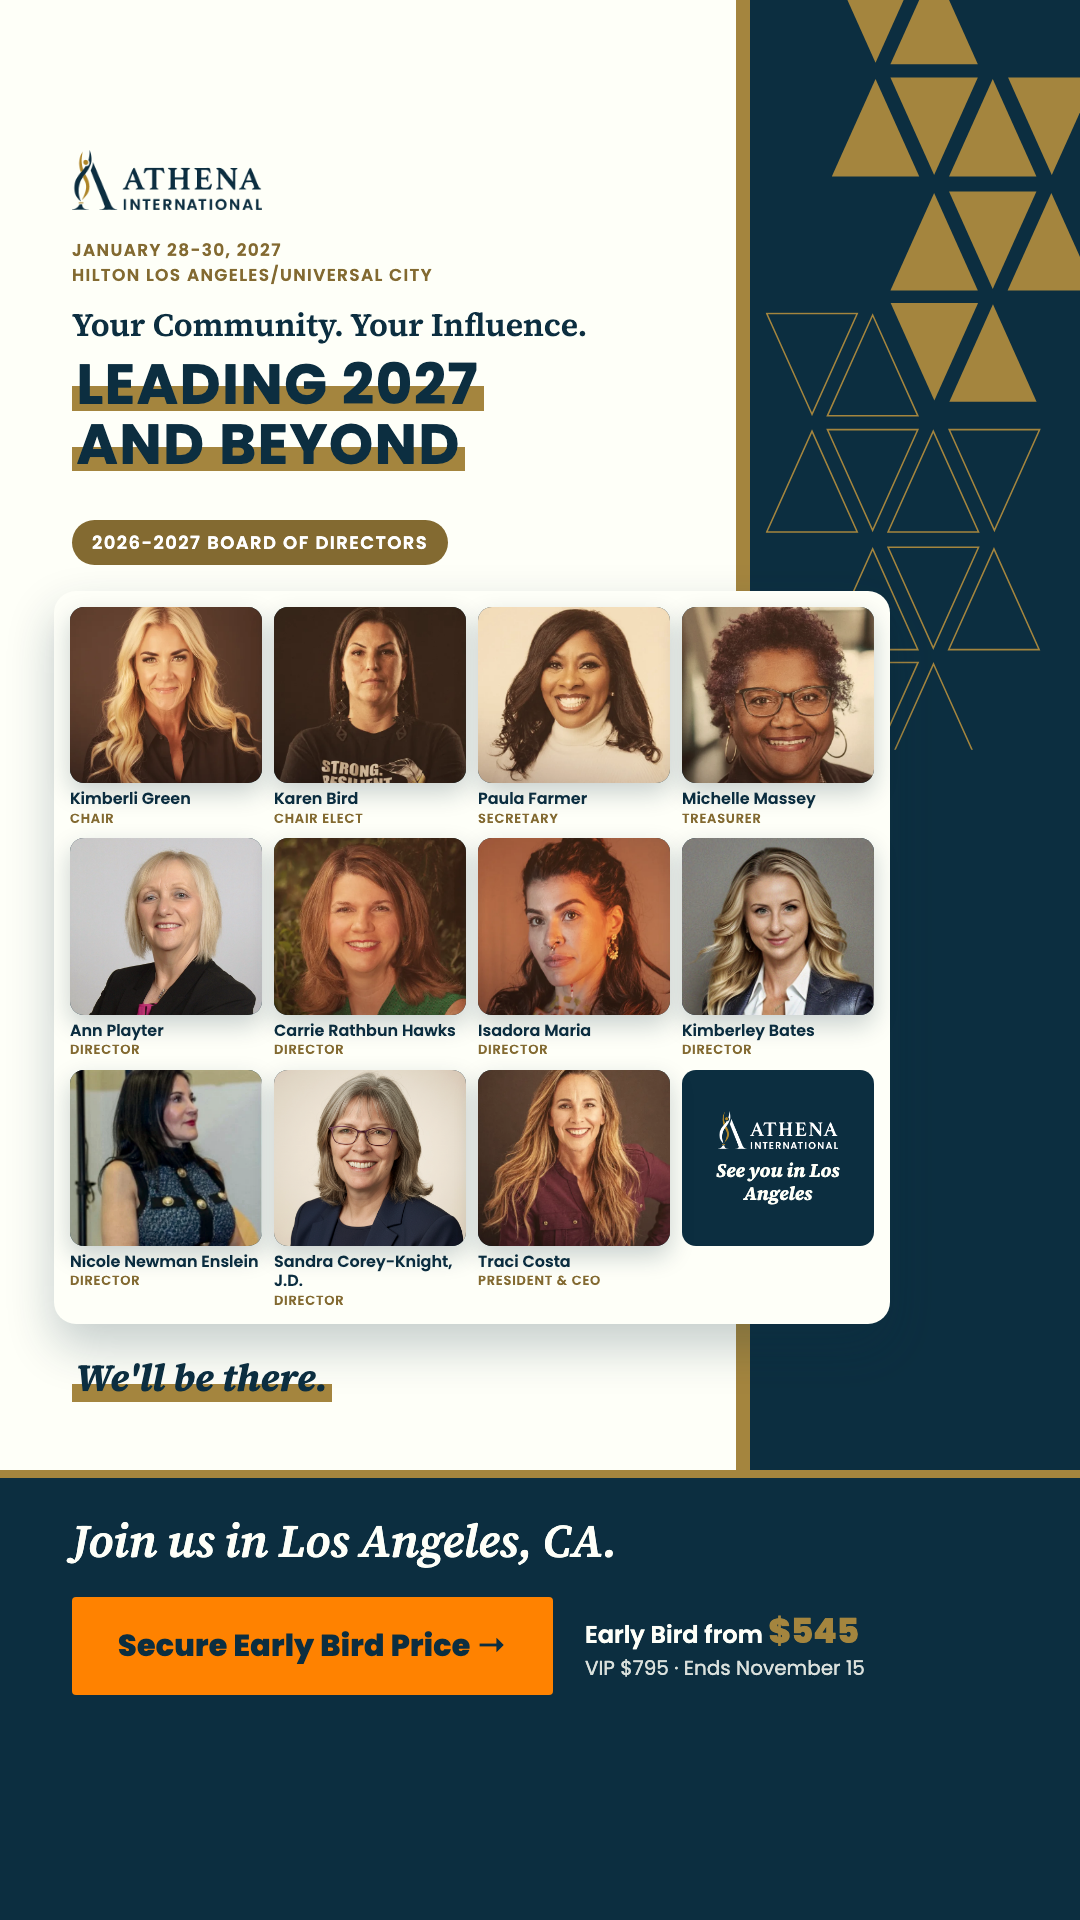
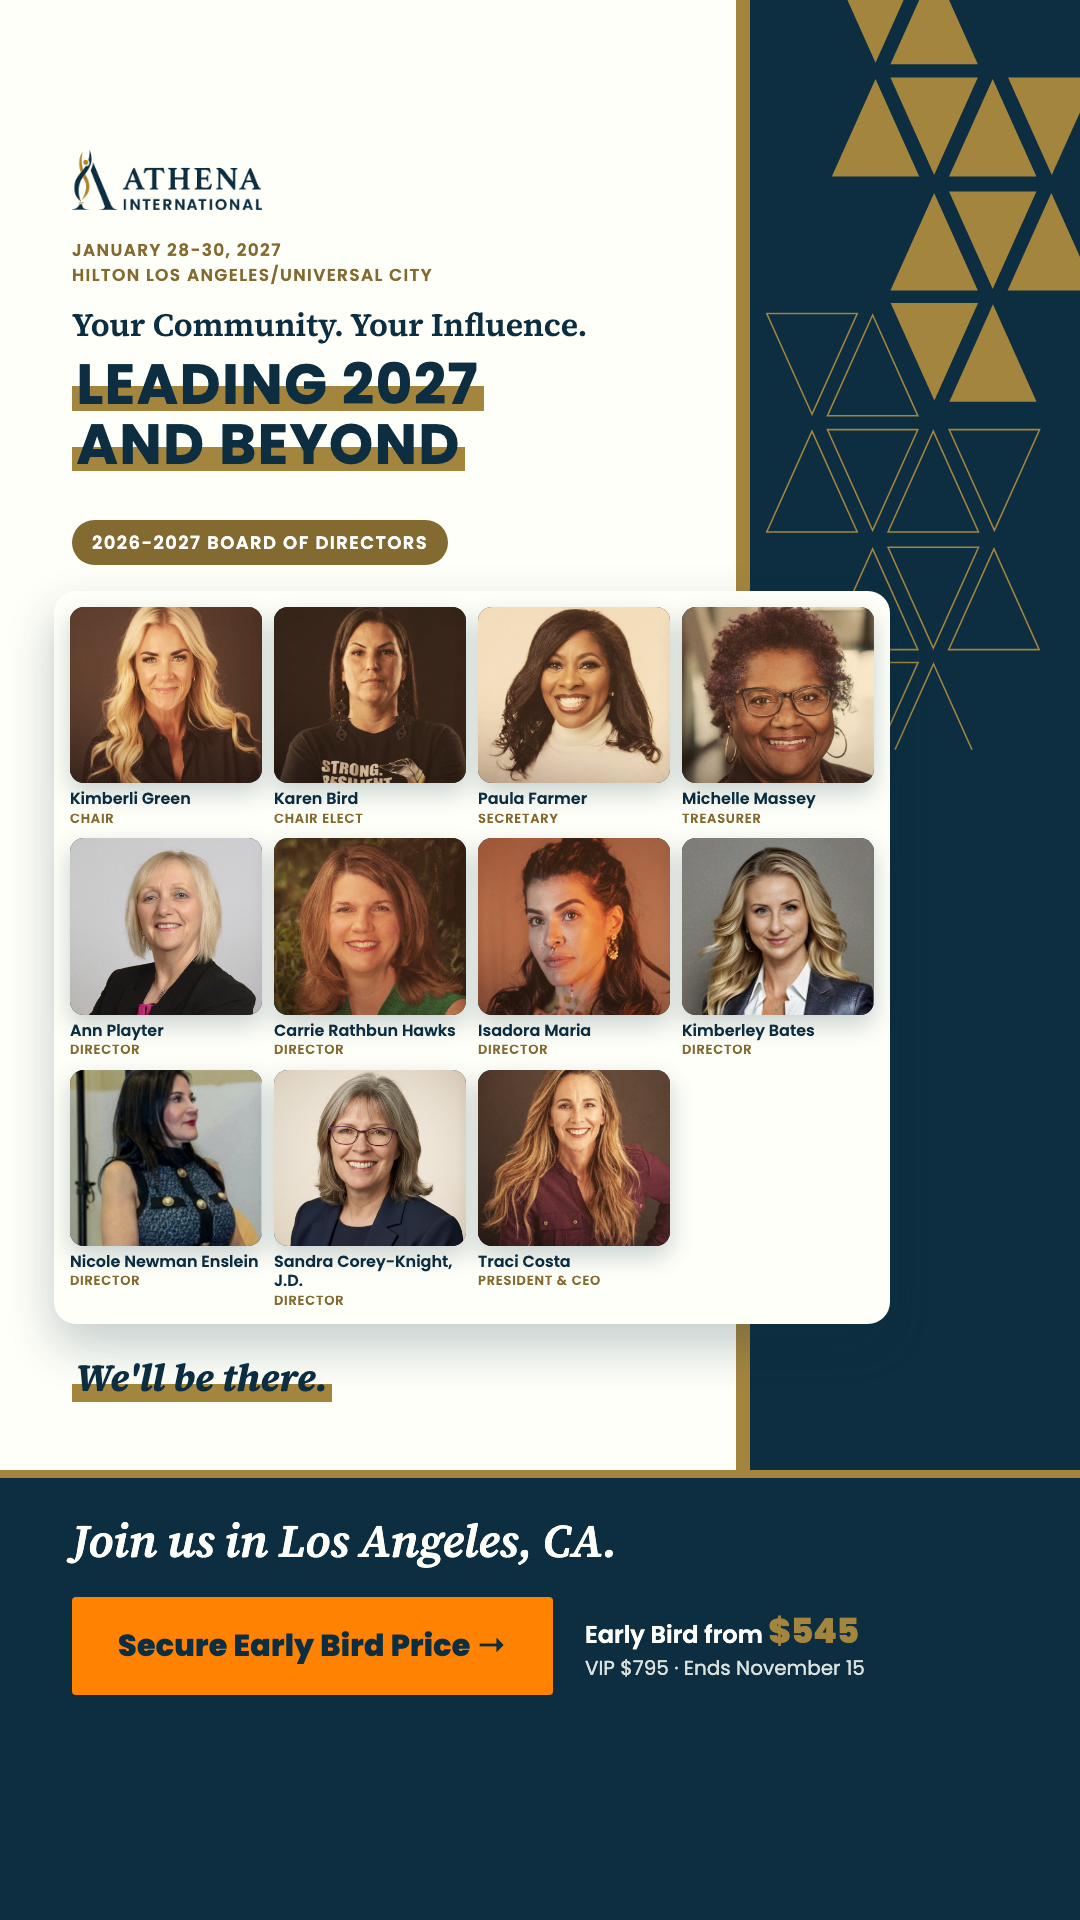
kit de speakers atualizado

Changed region(s): [[0.6111, 0.5312, 0.825, 0.6562]]

diff --git a/index.html b/index.html
@@ -1658,7 +1658,7 @@ Early Bird pricing from $545 ends November 15.
 https://conference.athenainternational.org/?utm_source=linkedin&amp;utm_medium=post&amp;utm_campaign=social_2027&amp;utm_content=painel-turbulence
 
 #ATHENA2027 #WomenInLeadership #WomenInAviation</pre><button type="button" class="copy" data-for="s-painel-turbulence-li">Copy text</button></div></article></div></section><section class="spk" id="board-of-directors"><header class="spkhead"><div><p class="role">ATHENA accounts</p><h3>2026-2027 Board of Directors</h3></div>
-<div class="tags"><a href="social/board-of-directors/captions.txt?v=f7b35ae7" target="_blank" rel="noopener">captions.txt</a></div></header><div class="chs"><article class="ch"><a class="shot" href="social/board-of-directors/board-of-directors_ig-post_1080x1350.png?v=6bfdca67" target="_blank" rel="noopener"><img src="social/board-of-directors/board-of-directors_ig-post_1080x1350.png?v=6bfdca67" alt="2026-2027 Board of Directors, Instagram Post" loading="lazy" width="1080" height="1350"></a>
+<div class="tags"><a href="social/board-of-directors/captions.txt?v=f7b35ae7" target="_blank" rel="noopener">captions.txt</a></div></header><div class="chs"><article class="ch"><a class="shot" href="social/board-of-directors/board-of-directors_ig-post_1080x1350.png?v=369ddcfd" target="_blank" rel="noopener"><img src="social/board-of-directors/board-of-directors_ig-post_1080x1350.png?v=369ddcfd" alt="2026-2027 Board of Directors, Instagram Post" loading="lazy" width="1080" height="1350"></a>
 <div class="chbody"><h4>Instagram Post<span>1080 × 1350</span></h4>
 <pre id="s-board-of-directors-ig">We&#x27;ll be there. Join us!
 
@@ -1670,10 +1670,10 @@ Early Bird pricing from $545 ends November 15.
 Tickets: conference.athenainternational.org
 
 #ATHENA2027 #WomenInLeadership #LeadershipDevelopment #WomenLeaders #LosAngeles</pre><button type="button" class="copy" data-for="s-board-of-directors-ig">Copy text</button></div></article>
-<article class="ch"><a class="shot" href="social/board-of-directors/board-of-directors_ig-story_1080x1920.png?v=392cfa44" target="_blank" rel="noopener"><img src="social/board-of-directors/board-of-directors_ig-story_1080x1920.png?v=392cfa44" alt="2026-2027 Board of Directors, Instagram Story" loading="lazy" width="1080" height="1920"></a>
+<article class="ch"><a class="shot" href="social/board-of-directors/board-of-directors_ig-story_1080x1920.png?v=75a08795" target="_blank" rel="noopener"><img src="social/board-of-directors/board-of-directors_ig-story_1080x1920.png?v=75a08795" alt="2026-2027 Board of Directors, Instagram Story" loading="lazy" width="1080" height="1920"></a>
 <div class="chbody"><h4>Instagram Story<span>1080 × 1920</span></h4><p class="meta">Link sticker “Get your pass”<br><span class="url">https://conference.athenainternational.org/?utm_source=instagram&amp;utm_medium=story&amp;utm_campaign=social_2027&amp;utm_content=board-of-directors</span>Mention sticker @athena_international</p>
 <pre id="s-board-of-directors-st">See you in LA</pre><button type="button" class="copy" data-for="s-board-of-directors-st">Copy text</button></div></article>
-<article class="ch"><a class="shot" href="social/board-of-directors/board-of-directors_linkedin_1200x1500.png?v=9ddc4740" target="_blank" rel="noopener"><img src="social/board-of-directors/board-of-directors_linkedin_1200x1500.png?v=9ddc4740" alt="2026-2027 Board of Directors, LinkedIn Post" loading="lazy" width="1080" height="1350"></a>
+<article class="ch"><a class="shot" href="social/board-of-directors/board-of-directors_linkedin_1200x1500.png?v=cd7d96ea" target="_blank" rel="noopener"><img src="social/board-of-directors/board-of-directors_linkedin_1200x1500.png?v=cd7d96ea" alt="2026-2027 Board of Directors, LinkedIn Post" loading="lazy" width="1080" height="1350"></a>
 <div class="chbody"><h4>LinkedIn Post<span>1200 × 1500</span></h4>
 <pre id="s-board-of-directors-li">We&#x27;ll be there. Join us!
 
